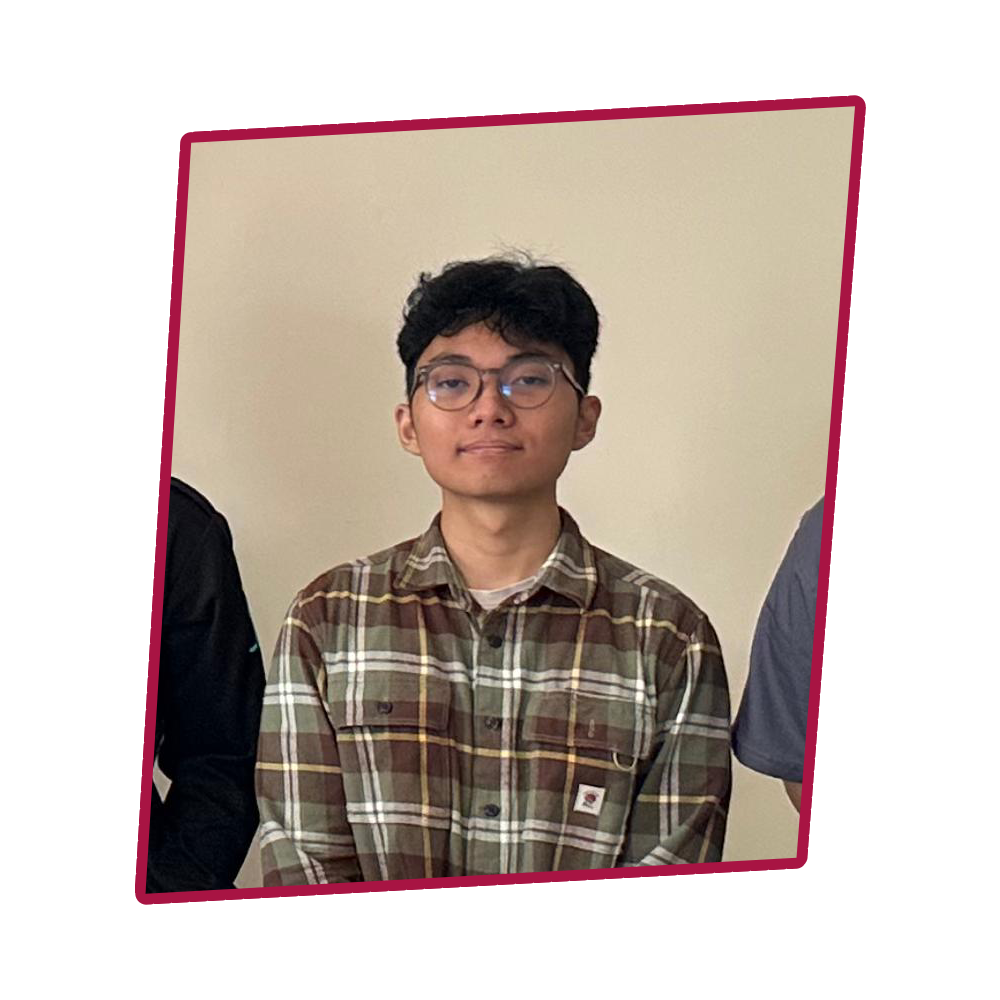
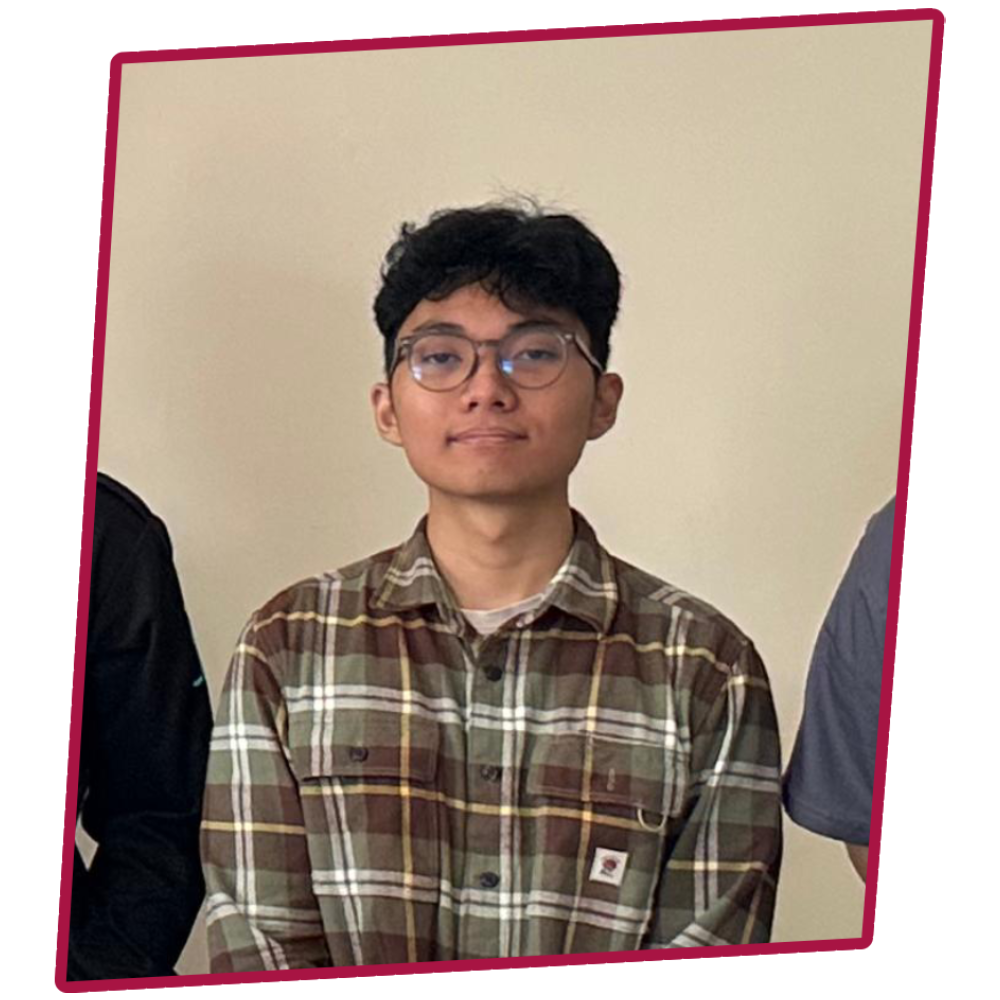
correctly used the image component from next

diff --git a/src/app/page.tsx b/src/app/page.tsx
@@ -21,7 +21,7 @@ export default function Home() {
             ingin menjadi Fullstack Web Developer dan UI/UX Designer di masa depan.
           </p>
           </div>
-          <Image src="/headshot.png" width={400} height={400} alt="" className='row-span-2 place-self-start'/>
+          <Image src="/headshot.webp" width={1000} height={1000} alt="" className='row-span-2 place-self-start w-[450px]'/>
         </div>
         {/* <hr className="text-gray-300 border-solid border-0.2 m-5 min-w-300 rounded-lg"/> */}
         <ContentGrid
@@ -59,19 +59,22 @@ export default function Home() {
             description: "Saya suka bermain game, terutama game kompetitif FPS seperti Valorant, The Finals." + 
             "Saya juga menikmati game open-world yang slow paced seperti Legend of Zelda: Breath of the wild, " + 
             "Spider-man 1 dan 2, dan terkadang bermain game multiplayer bersama teman-temanku",
-            image: { src: "/games-1.png", alt: "Gaming Image", width: 300 }
+            image: { src: "/games-1.png", alt: "Gaming Image", width: 1170, height: 1572 }
           },
           {
             title: "Editing Video",
-            description: "Saya suka mengedit video, seperti video pendek untuk Instagram atau TikTok, menggunakan Adobe After Effects dan Davinci Resolve",
-            image: { src: "/AE-timeline.png", alt: "Editing Video Image", width: 500 }
+            description: "Saya suka mengedit video, seperti video pendek untuk Instagram atau TikTok, menggunakan" + 
+            " Adobe After Effects dan Davinci Resolve, mulai video editing karena ingin membuat konten youtube," +
+            " ternyata tidak semudah itu membuat konten youtube yang ingin ditonton orang orang, sekarang hanya" +
+            " mengedit karena iseng aja, dan saya suka melihat animasi yang smooth dan keren.",
+            image: { src: "/AE-timeline.png", alt: "Editing Video Image", width: 1405, height: 1025 }
           },
           {
             title: "Music",
             description: "Saya senang mendengarkan musik, terutama genre hip-hop dan lagu 2000-an. Beberapa artis favorit saya adalah Tyler, The Creator," +
             "Kendrick Lamar, Foxy Shazam, Lilas / YOASOBI. Belakangan ini saya mendapatkan lagu baru dari menonton film dan series yang dibuat oleh James Gunn, Director"+
             " yang selalu memasukkan lagu-lagu keren ke dalam filmnya dan selalu membuat saya menambah playlist saya.",
-            image: { src: "/musics-tiles.png", alt: "Music Image", width: 500}
+            image: { src: "/musics-tiles.png", alt: "Music Image", width: 1000, height: 1000}
           }
         ]}
       />

diff --git a/src/components/Hobbies.tsx b/src/components/Hobbies.tsx
@@ -17,7 +17,7 @@ export type hobbiesProps ={
   contents:  {
     title: string;
     description: string;
-    image: { src: string, alt: string, width: number };
+    image: { src: string, alt: string, width: number, height: number };
   }[]
 }
 
@@ -72,9 +72,9 @@ export function Hobbies({ className, contents }: hobbiesProps) {
               <Image
                 src={currentContent.image.src}
                 width={currentContent.image.width}
-                height={currentContent.image.width}
+                height={currentContent.image.height}
                 alt={currentContent.image.alt}
-                className="rounded-2xl max-w-[500px] min-w-[500px] h-[500px] object-cover "
+                className="rounded-2xl h-[500px] object-cover "
               />
 
           </motion.div>
@@ -85,13 +85,13 @@ export function Hobbies({ className, contents }: hobbiesProps) {
         <Pagination className="flex flex-row gap-3">
           <PaginationContent>
             <PaginationItem className="cursor-pointer">
-              <PaginationPrevious onClick={handlePrev}  className="hover:bg-clickable hover:text-gray-100"/>
+              <PaginationPrevious onClick={handlePrev} className="hover:bg-clickable hover:text-gray-100"/>
             </PaginationItem>
             <PaginationItem>
               <PaginationLink className="hover:bg-white/0 hover:text-white cursor-default">{currentIndex + 1} / {contents.length}</PaginationLink>
             </PaginationItem>
             <PaginationItem className="cursor-pointer">
-              <PaginationNext onClick={handleNext} className="hover:bg-clickable hover:text-gray-100"/>
+              <PaginationNext onClick={handleNext} className=" hover:bg-clickable hover:text-gray-100"/>
             </PaginationItem>
           </PaginationContent>
         </Pagination>

diff --git a/src/components/ui/pagination.tsx b/src/components/ui/pagination.tsx
@@ -27,7 +27,7 @@ function PaginationContent({
   return (
     <ul
       data-slot="pagination-content"
-      className={cn("flex flex-row items-center gap-1", className)}
+      className={cn("flex flex-row items-center gap-3", className)}
       {...props}
     />
   )
@@ -77,7 +77,6 @@ function PaginationPrevious({
       {...props}
     >
       <ChevronLeftIcon />
-      <span className="hidden sm:block">Prev</span>
     </PaginationLink>
   )
 }
@@ -93,7 +92,6 @@ function PaginationNext({
       className={cn("gap-1 px-2.5 sm:pr-2.5", className)}
       {...props}
     >
-      <span className="hidden sm:block">Next</span>
       <ChevronRightIcon />
     </PaginationLink>
   )

diff --git a/src/app/about/page.tsx b/src/app/about/page.tsx
@@ -38,9 +38,13 @@ export default function About() {
                 </div>
             </div>
             </div>
-            <Image src="/headshot.png" height={600} width={600} alt="me" />
+            <Image src="/headshot.webp" 
+            width={1000}
+            height={1000}
+            alt="me"
+            className="w-[600px] h-[600px]"/>
             </div>
-            <CV className="my-10" />
+            <CV className="my-10 mx-20" />
         </div>
     )
 }

diff --git a/src/app/hobbies/page.tsx b/src/app/hobbies/page.tsx
@@ -1,0 +1,14 @@
+import Image from "next/image"
+
+export default function hobbiesPage(){
+    return(
+        <div>
+            <div className="mx-30 mt-15 font-bold text-4xl">
+                My Hobbies
+            </div>
+            <div className="h-200 w-[50px] hover:w-[400px] bg-main-red text-center hover:h-50 object-cover transition-all duration-500 mx-30">
+            </div>
+        </div>
+    
+    )
+}

diff --git a/src/app/hobbies/layout.tsx b/src/app/hobbies/layout.tsx
@@ -1,8 +1,8 @@
 import type { Metadata } from "next";
 
 export const metadata: Metadata = {
-  title: "About - Arya Satwika",
-  description: "About page of Arya Satwika",
+  title: "Hobbies - Arya Satwika",
+  description: "Hobbies page of Arya Satwika",
 };
 
 export default function Layout({

diff --git a/src/app/globals.css b/src/app/globals.css
@@ -62,7 +62,7 @@
 
 :root {
   --radius: 0.625rem;
-  --background: linear-gradient(to bottom right, var(--tw-gradient-stops));
+  --background: oklch(0.985 0 0);
   --foreground: oklch(0.145 0 0);
   --card: oklch(1 0 0);
   --card-foreground: oklch(0.145 0 0);
